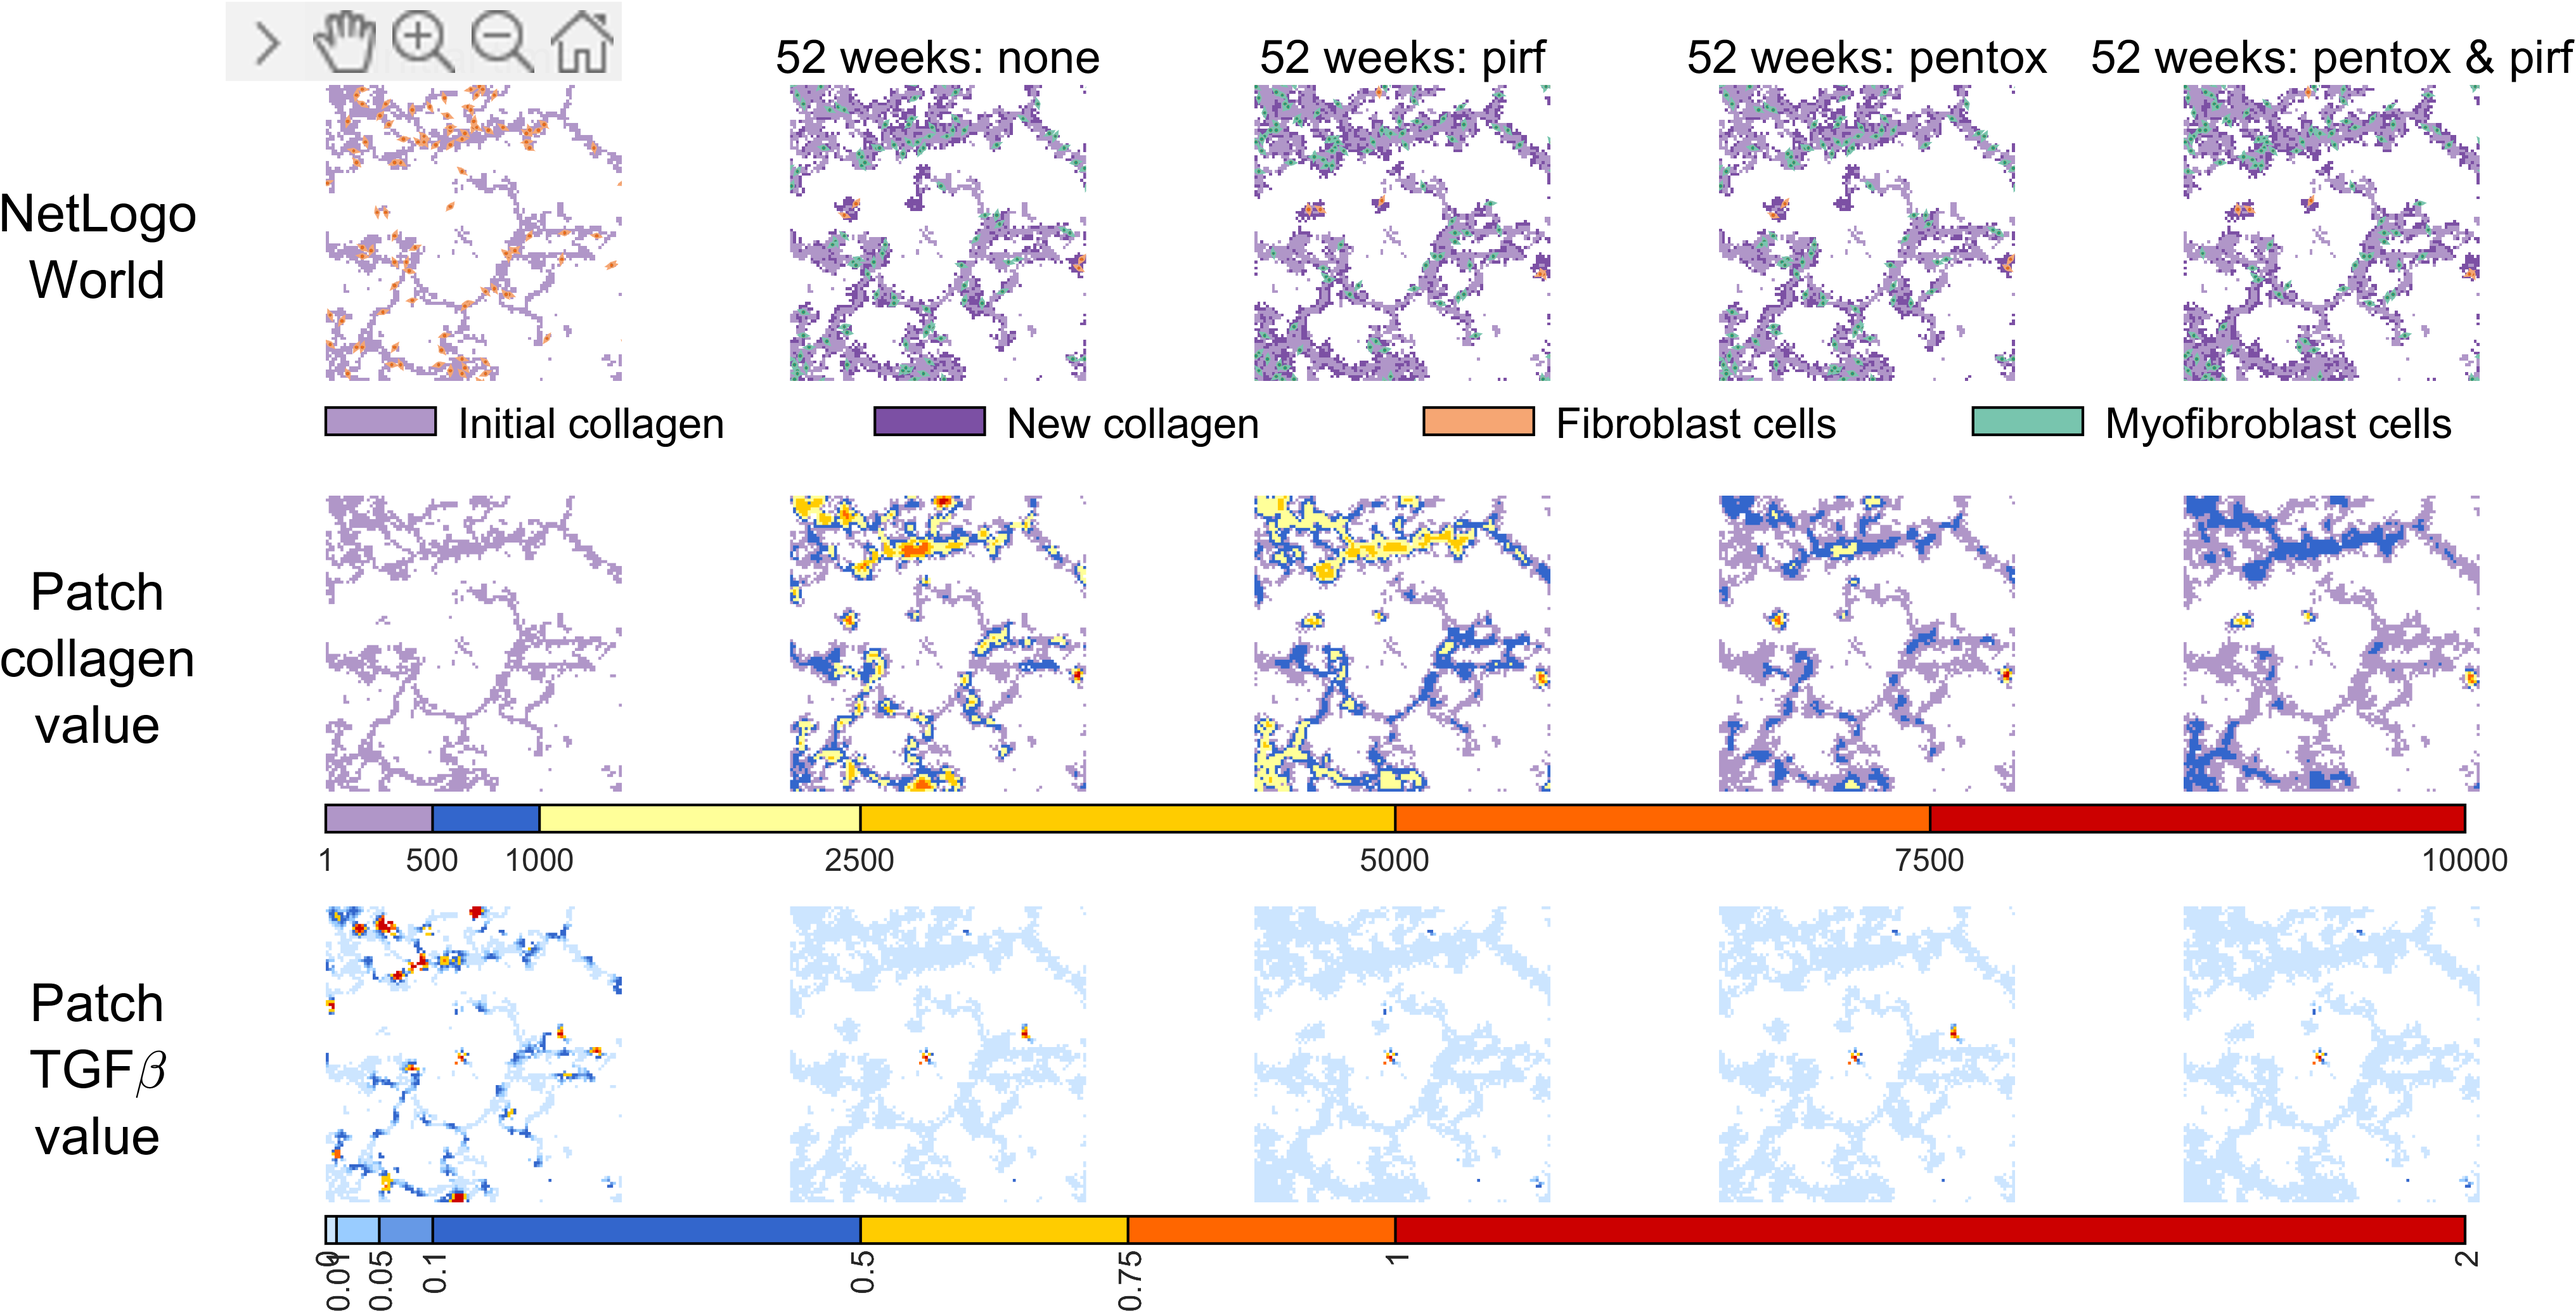
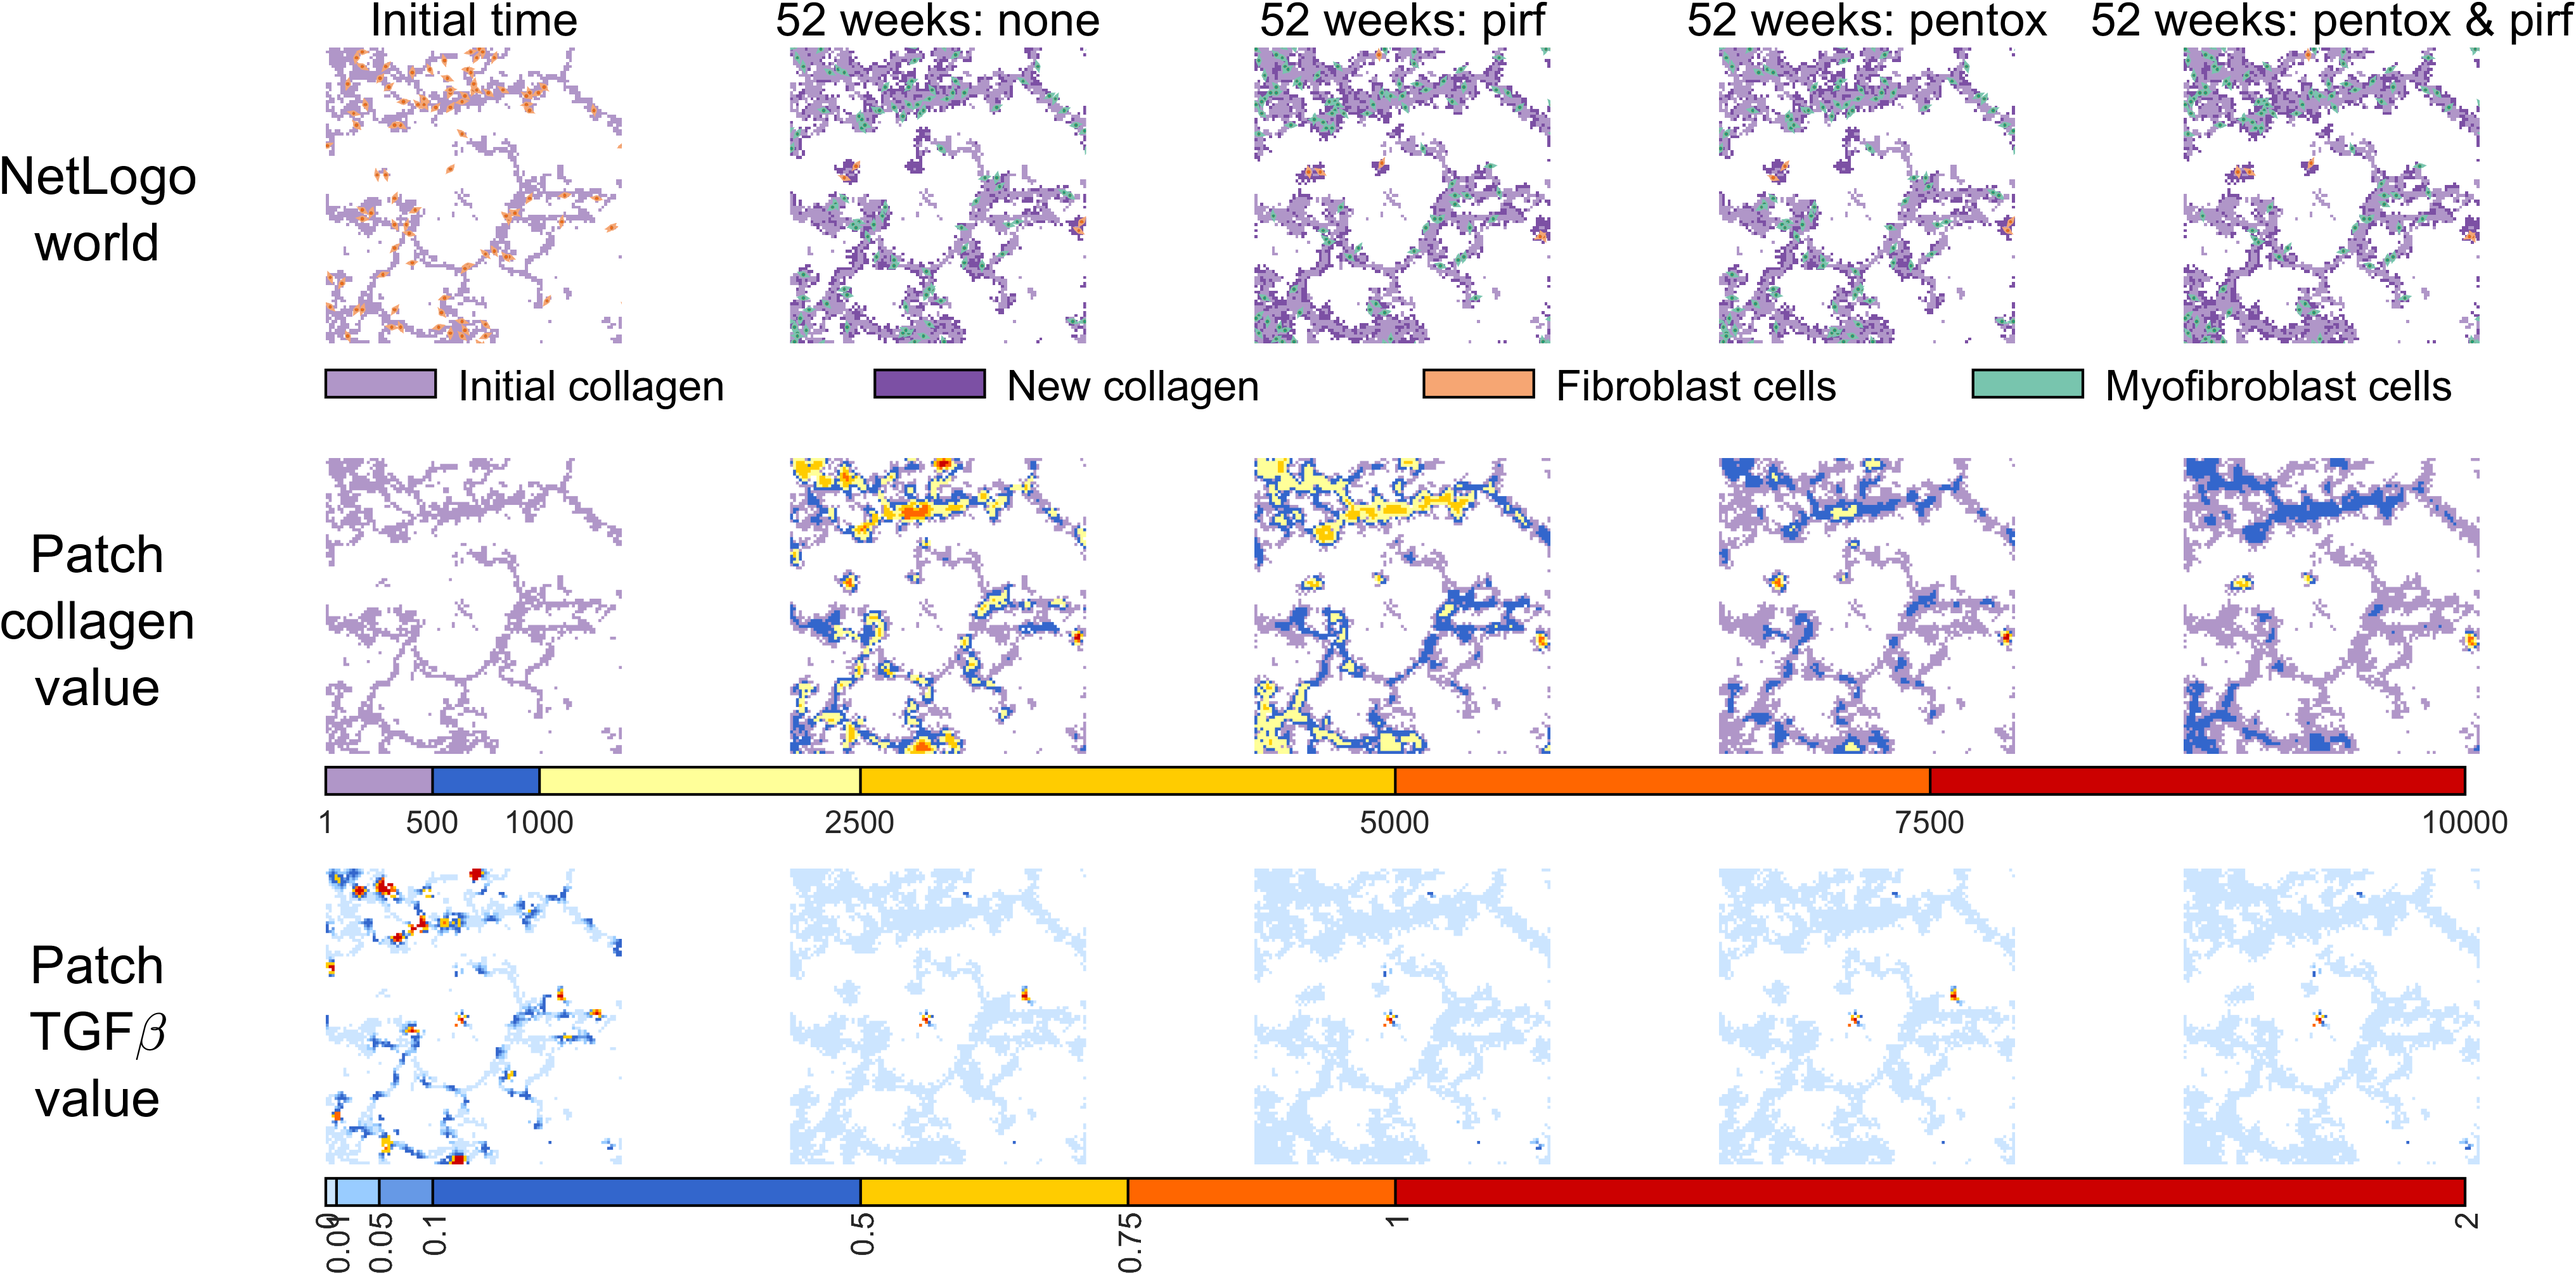
lowercase world

diff --git a/PlotExportWorldBehaviorSpaceFigForEachRep.m b/PlotExportWorldBehaviorSpaceFigForEachRep.m
@@ -12,7 +12,7 @@ selectedset = [60+49, 49:3:60, 60+50, 50:3:60, 60+51, 51:3:60];
 selectedmatrix = [60+49, 49:3:60; 60+50, 50:3:60; 60+51, 51:3:60];
 cols = 5; rows = 3; reps = 3;
 replicateLabels = {"Rep1","Rep2","Rep3"};
-rowLabels = {"NetLogo World","Patch collagen value","Patch TGF\beta value"};
+rowLabels = {"NetLogo world","Patch collagen value","Patch TGF\beta value"};
 treatmentLabels = {"Initial time","52 weeks: none","52 weeks: pirf","52 weeks: pentox","52 weeks: pentox & pirf"};
 
 % Fixed colorbar settings
